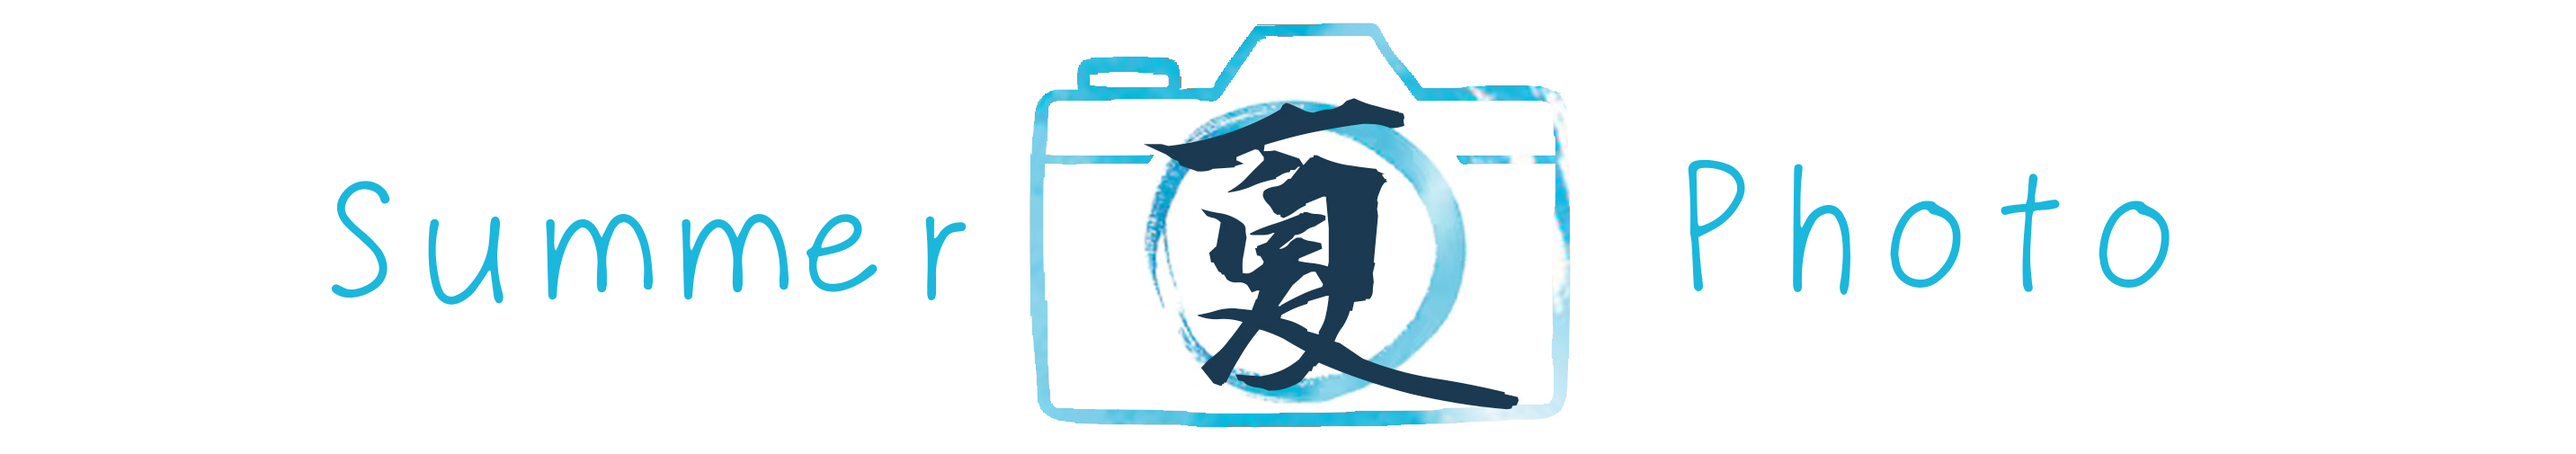
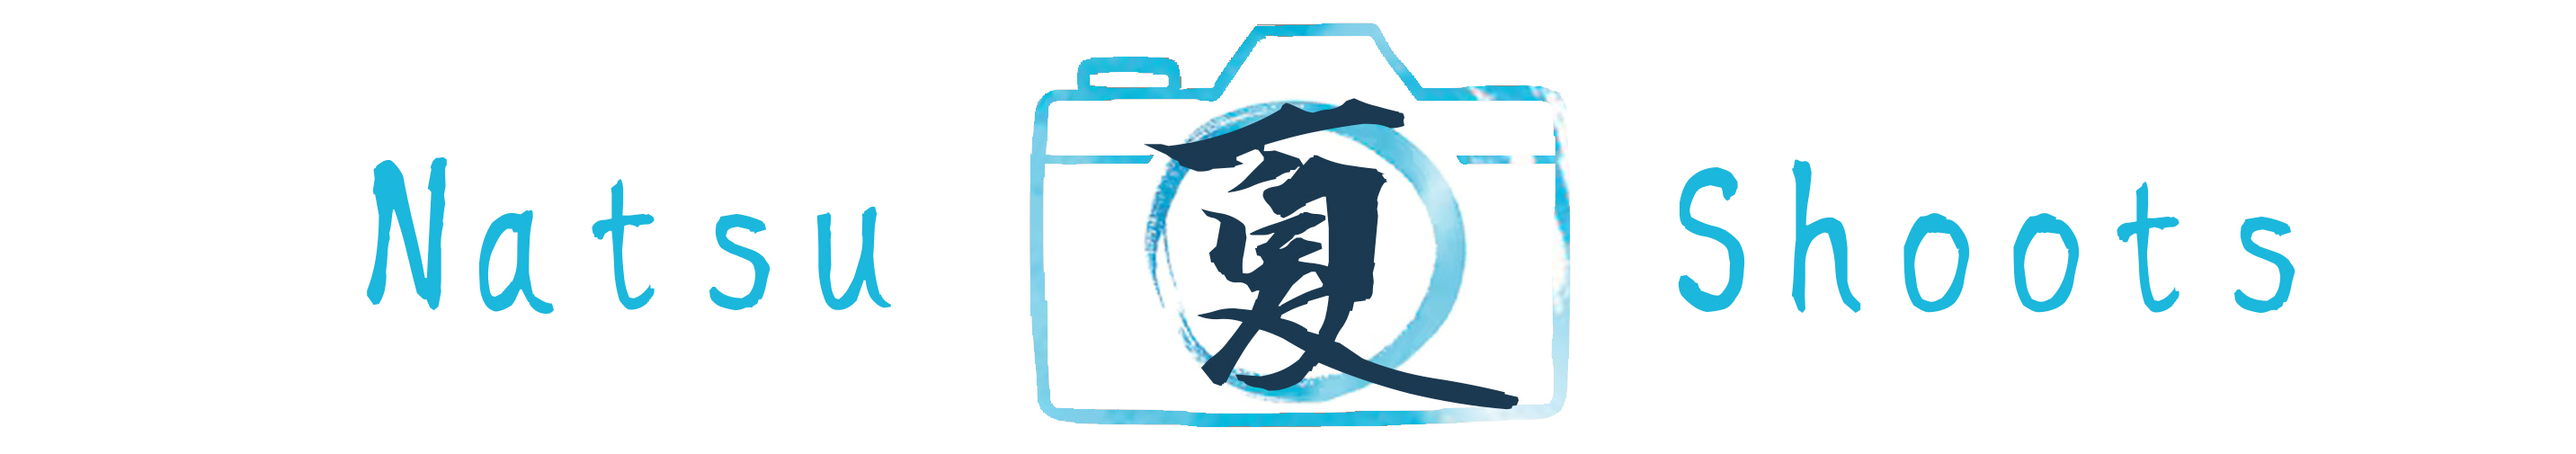
update name

Changed region(s): [[0.6524, 0.3564, 0.9009, 0.6832], [0.1243, 0.3564, 0.3728, 0.6832]]

diff --git a/index.html b/index.html
@@ -3,7 +3,7 @@
 <head>
   <meta charset="UTF-8">
   <meta name="viewport" content="width=device-width, initial-scale=1.0">
-  <title>SummerPhoto30</title>
+  <title>NatsuShoots</title>
   <link rel="stylesheet" href="css/font.css">
   <link rel="stylesheet" href="css/style.css">
   <link rel="stylesheet" href="css/gallery.css">
@@ -58,7 +58,7 @@
 
   <!-- Section 3: Portfolio -->
   <section id="portfolio" class="portfolio">
-    <h2>SummerPhoto30</h2>
+    <h2>NatsuShoots</h2>
     <p>Japanese cool toned, film-inspired, and light portraiture</p>
     <div class="portfolio-grid">
       <div class="portfolio-entry">

diff --git a/gallery.html b/gallery.html
@@ -3,7 +3,7 @@
 <head>
   <meta charset="UTF-8">
   <meta name="viewport" content="width=device-width, initial-scale=1.0">
-  <title>Gallery | SummerPhoto30</title>
+  <title>Gallery | NatsuShoots</title>
   <link rel="stylesheet" href="css/font.css">
   <link rel="stylesheet" href="css/style.css">
   <link rel="stylesheet" href="css/gallery.css">
